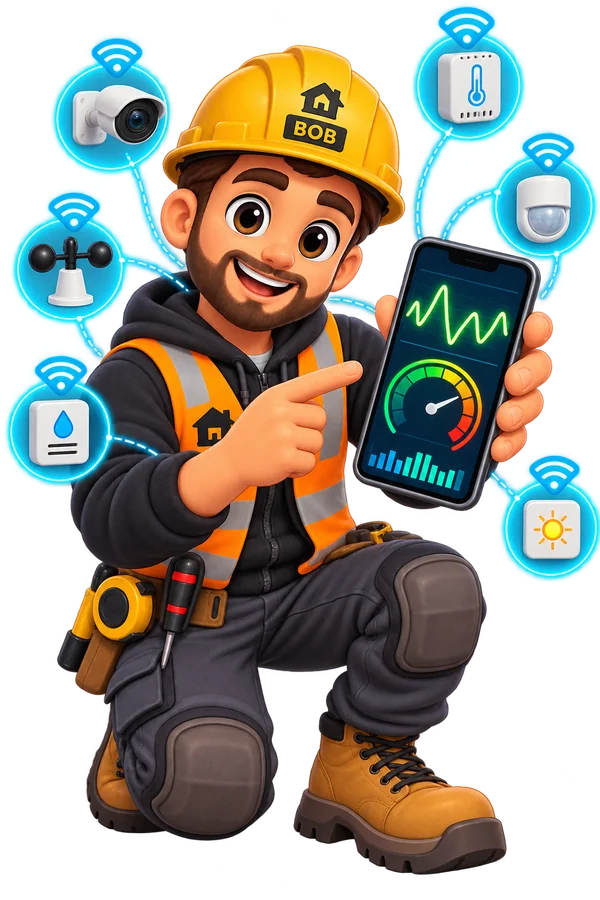
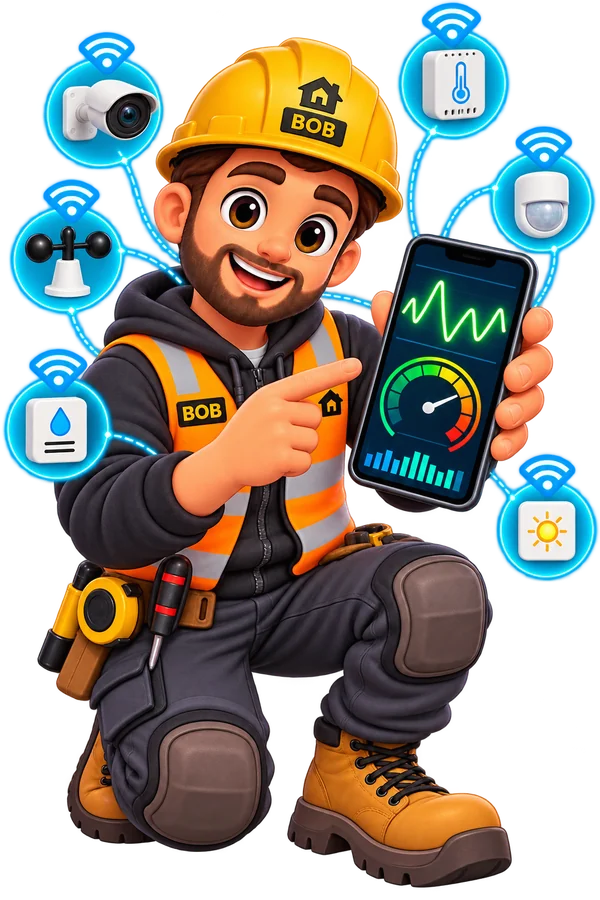
assets(bob): tiles 13 and 15 with BOB label on helmet and vest
Claude-Session: https://claude.ai/code/session_01YZJCVNA6TPhxHRt7d7tsXN

diff --git a/docs/lista-do-zrobienia.md b/docs/lista-do-zrobienia.md
@@ -28,7 +28,7 @@ Tu trafia bieżący stan pracy: co w trakcie, co zablokowane, co następne — a
 - ✅ **PR #315 scalony do `main` (16.10.2026, merge `babc990f`) po poprawkach: `next` 16.3.8, E2E bez numeru wersji bazy, usunięte nieużywane tokeny ikon.** Historia: wstrzymany na polecenie właściciela do czasu obrazków Boba, potem scalony za jego zgodą. Gałąź: `claude/skala-ikon-d83`. Zawartość: D83 (skala ikon, układ kafla C), D84 (prompty Bob, obrazy kafli 7, 13, 14, 16), D85 (kafel Ustawienia w siatce, baner modułu 7), wersja 3.28.1. Następny krok: pozycje dodatkowe C i zestaw ikon 3D (D87), potem poprawki przed scaleniem: (1) bramka audytu 11.5 czerwona na każdym PR przez `next` 16.3.6 (łatka w 16.3.8, decyzja właściciela: podbić albo zwolnić bramkę wpisem), (2) E2E `e2e/offline.test.mjs:90` pada też na `main` (test otwiera bazę IndexedDB w wersji 1, aplikacja ma 2), (3) trzy nieużywane tokeny `--ikona-xs/s/ui` do usunięcia albo użycia (martwy kod). Kolizje: `app/page.tsx`, `lib/pulpit/maskotki.ts`, `rejestr-decyzji.md` (numer D86+ przy równoległych sesjach). Po scaleniu przenumerować wersję, jeśli `main` pójdzie do przodu.
 - 🔲 **Preset „Ikony zamiast Boba” (D87)** — priorytet średni. Zestaw 16 ikon 3D (styl z arkusza właściciela z 16.10.2026) jako alternatywa dla ilustracji Boba na kaflach i stronach modułów, wybierana w Ustawieniach (wygląd) dla osób, które nie chcą widzieć maskotki. Czeka na pliki: 16 ikon z przezroczystym tłem, w tym trzy brakujące (kafel 12, 16 i wariant dla 8), prompt w `docs/maskotka-bob-prompty.md`, sekcja D. Potem: opcja w `lib/wyglad/`, mapa `IKONA_3D_PO_ID_KAFLA` obok `maskotki.ts`, i18n PL/EN/RU, test. Minusy: kolejne ok. 16 plików w precache (budżet D61), poświata na jasnym motywie. Kolizje: `app/page.tsx`, `lib/pulpit/maskotki.ts`, `lib/wyglad/style.ts`. Kolejność: po obrazach Boba.
 - 🔲 **Wymiana obrazów Boba na wersje z napisem „BOB” (D84a)** — priorytet niski, po zestawie C. Właściciel przerabia w GPT wszystkie ilustracje (kafle 1–16, baner 7); każdy nowy plik trafia pod tę samą nazwę w `public/maskotki-bob/`, bez zmian w kodzie. Plusy: spójna postać. Minusy: 16 podmian i odświeżenie podglądu. Kolizje: brak.
-- 🔲 **Obrazy Boba z napisem BOB na kasku dla kafli 3, 15 i baneru modułu 7** — priorytet średni. Pozostałe kafle (1, 2, 4, 8, 12, 14) już podmienione (3.28.2). Pliki wchodzą pod tymi samymi nazwami `modul-NN.webp`. Odblokowuje: komplet maskotki z napisem. Kolizje: brak. Kolejność: przed ikonami 3D (D87).
+- 🔲 **Obrazy Boba z napisem BOB na kasku dla kafla 3 i baneru modułu 7** — priorytet średni. Pozostałe kafle (1, 2, 4, 8, 12, 13, 14, 15) już podmienione (3.28.2). Pliki wchodzą pod tymi samymi nazwami `modul-NN.webp`. Odblokowuje: komplet maskotki z napisem. Kolizje: brak. Kolejność: przed ikonami 3D (D87).
 - 🔲 **Ikony liniowe w reszcie interfejsu (emoji → `Ikona`)** — priorytet średni. Zrobione: 🔔, ✕, ←. Zostaje: `lib/pulpit/registry.ts` (pole `ikona` kafli), `app/moduly/[id]/page.tsx`, `app/ustawienia/page.tsx`, `app/page.tsx` (⚙), `components/theme-toggle.tsx`, `app/wzornik/page.tsx`, `components/porownywarka-paneli/odczyt-karty.tsx`; przywrócić tokeny `--ikona-xs/s/ui` przy użyciu. Odblokowuje: spójny wygląd chrome w każdym stylu. Kolizje: `lib/pulpit/registry.ts`, `app/page.tsx`. Kolejność: przed presetem „Ikony zamiast Boba” (D87).
 - 🔲 **Ponowny pomiar precache (D61)** — priorytet średni. Raport E2E 16.10.2026: 772 wpisy, 55,0 MB surowo wobec 20,85 MB w D61 (30.09.2026); trzeba zmierzyć transfer gzip/brotli i zdecydować, czy wariant A nadal wystarcza. Odblokowuje: świadomą decyzję o budżecie pierwszego pobrania. Kolizje: `lib/pwa/precache*.ts`, wpisy w `public/`. Kolejność: teraz, po scaleniu PR #315.
 - 🔲 **Preset „Ikony zamiast Boba”: ukrywanie Boba także w stanach interfejsu (D88)** — priorytet niski. Gdy preset D87 powstanie, `BobStanu` (`components/ui/bob-stanu.tsx`) ma się nie renderować, a ikona PWA zostaje bez zmian. Odblokowuje: pełny preset bez maskotki. Kolizje: `lib/wyglad/`, D87. Kolejność: po dostarczeniu ikon 3D.

diff --git a/docs/historia-wersji.md b/docs/historia-wersji.md
@@ -7,7 +7,7 @@ Zasady numeracji: `docs/wersjonowanie.md`. Najnowszy wpis na górze; jego numer 
 Ikony liniowe i napisy BOB na kaflach:
 - komponent `Ikona` (`components/ui/ikona.tsx`) z 26 ikonami liniowymi na siatce 24 px, rysowanymi kolorem tekstu (`currentColor`), więc zmieniają kolor razem ze stylem aplikacji; nazwy ikon w stałych `IKONA`, żeby komponenty nie przekazywały gołych tekstów (strażnik i18n 17.1a),
 - w interfejsie emoji zastąpiły ikony: 🔔 w nagłówku pulpitu, ✕ w oknie i na przycisku asystenta AI oraz przy punktach lokalizacji, ← na stronie 404 (reszta emoji w kolejnym pakiecie),
-- kafle 1, 2, 4, 8, 12 i 14 mają nowe obrazy Boba z napisem BOB na kasku i plakietką na kamizelce (kafle 3, 15 i baner modułu 7 czekają na nowe wersje).
+- kafle 1, 2, 4, 8, 12, 13, 14 i 15 mają nowe obrazy Boba z napisem BOB na kasku i plakietką na kamizelce (kafel 3 i baner modułu 7 czekają na nowe wersje).
 
 Wpływ na liczby: brak — zmiana wyglądu.
 
